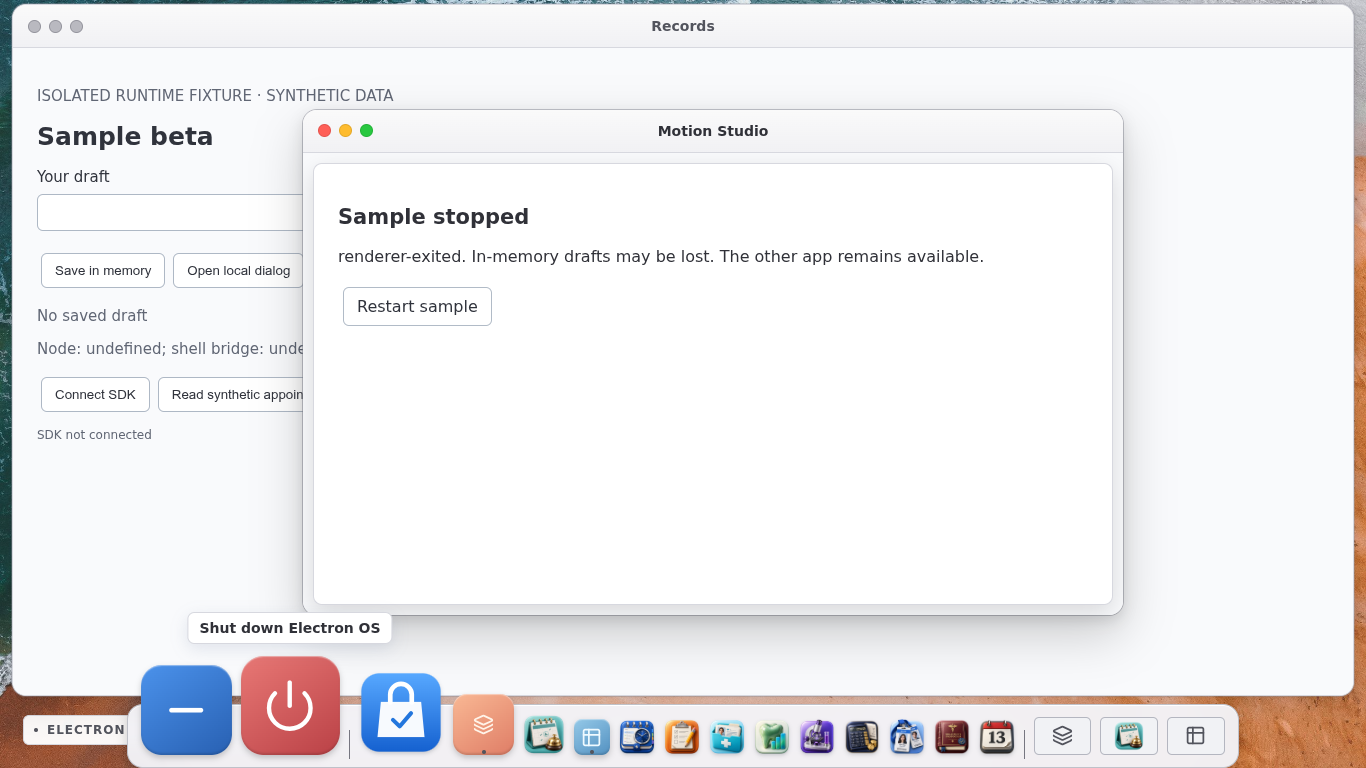
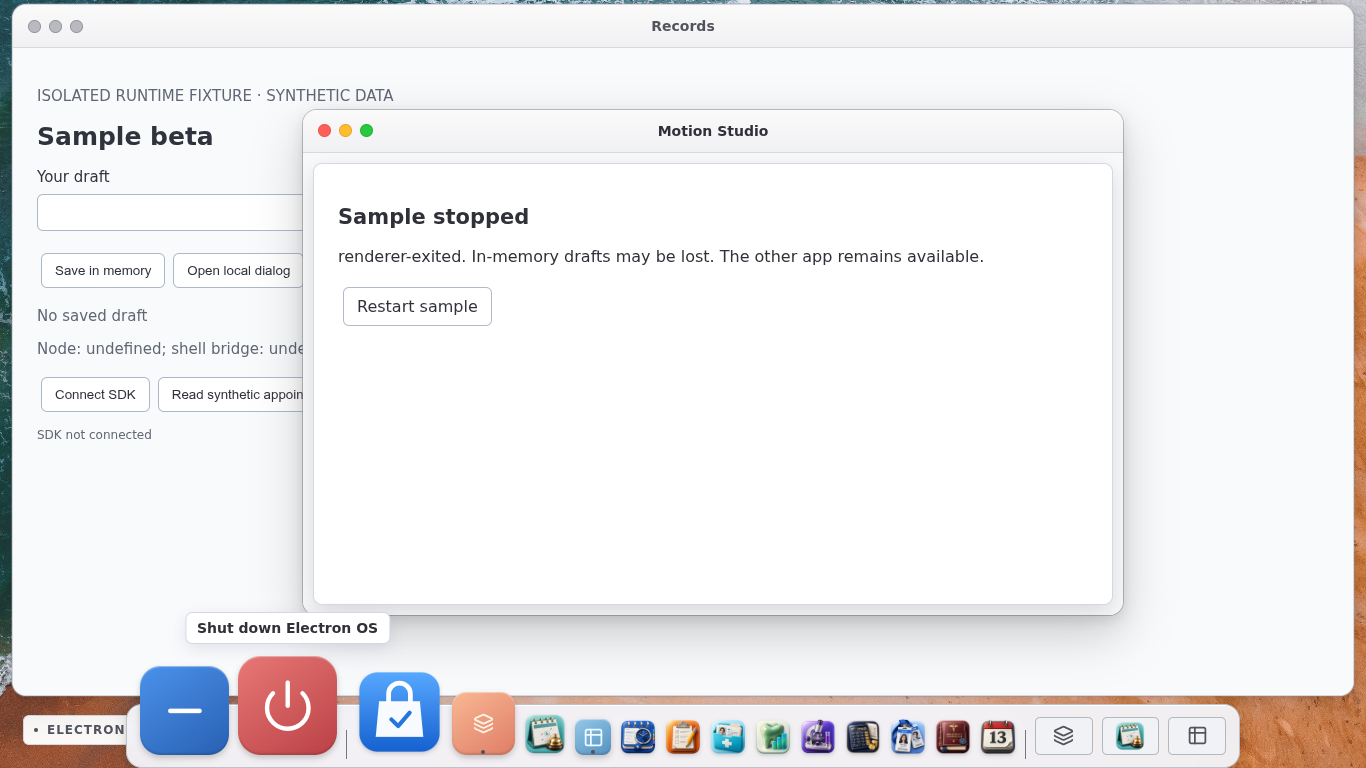
Wait for native viewport resize before runtime dock-edge proof

Changed region(s): [[0.123, 0.8125, 0.8917, 1.0], [0.3382, 0.875, 0.369, 0.9062]]

diff --git a/dental-os_v1_working_info/milestone-08-safe-app-updates/IMPLEMENTATION_NOTES.md b/dental-os_v1_working_info/milestone-08-safe-app-updates/IMPLEMENTATION_NOTES.md
@@ -13,3 +13,5 @@ First Windows CI 38855524396 passes 239 units/one POSIX skip, build, all 12 new 
 Actual live staging acceptance now passes: sequences 3–7 prove rotated-key successor, old lease pinning, minimum/digest revocation/withdrawal refusal, higher-sequence listing recovery and signed explicit controlled rollback to 1.1.0. Existing clients reachable; no clinical writes; all 13 bindings preserved; zero temporary publishers remain. First attempt returned an edge HTML response before route propagation, no policy/catalogue change; temporary publisher removed. Backend operator readiness GET now verifies routing before one non-retried POST, with three affected tests passing.
 
 Windows 38856462271 passes all gates at 83df9eef, before the final quarantine projection improvement. Visual review found failed digests were locally refused but background checks could download them again. Store now explains quarantine and automatic checks skip that exact failed digest. Affected 51 update tests, final build and private eight-update/eight-package cases pass; final Windows rerun pending.
+
+Windows 38856936051 at 7cff7d55 passes all new update/quarantine/unit/build/package/host gates, then a pre-existing runtime fullscreen edge test races React presentation against native viewport resize. Test now waits for actual expected guest viewport dimensions before moving from its centre to the bottom edge. Shared dock/Genie/runtime geometry implementation unchanged. Affected 28 Linux private runtime cases pass; final Windows rerun required.
